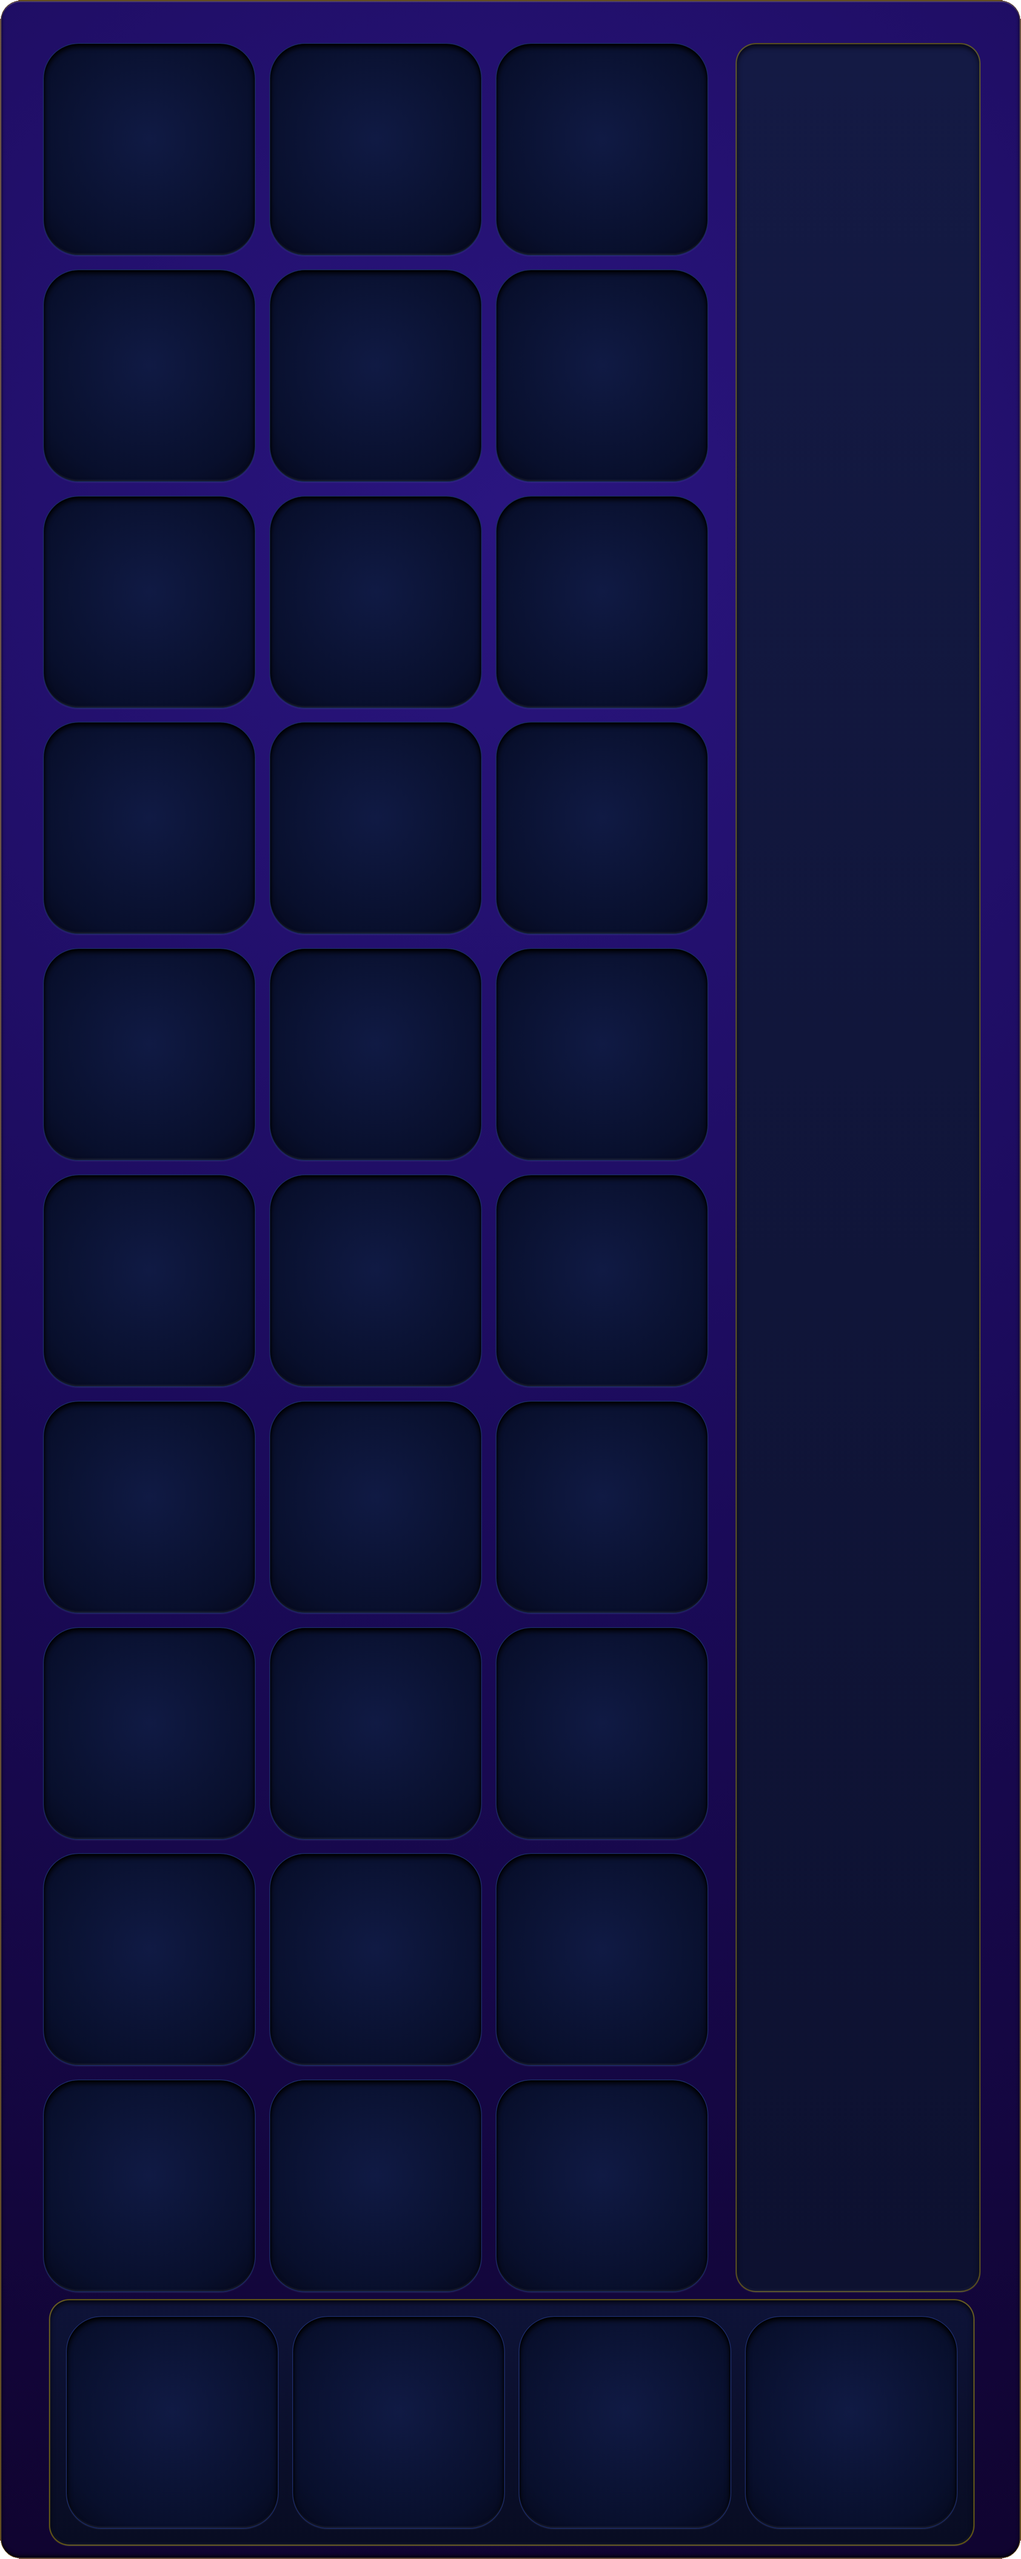
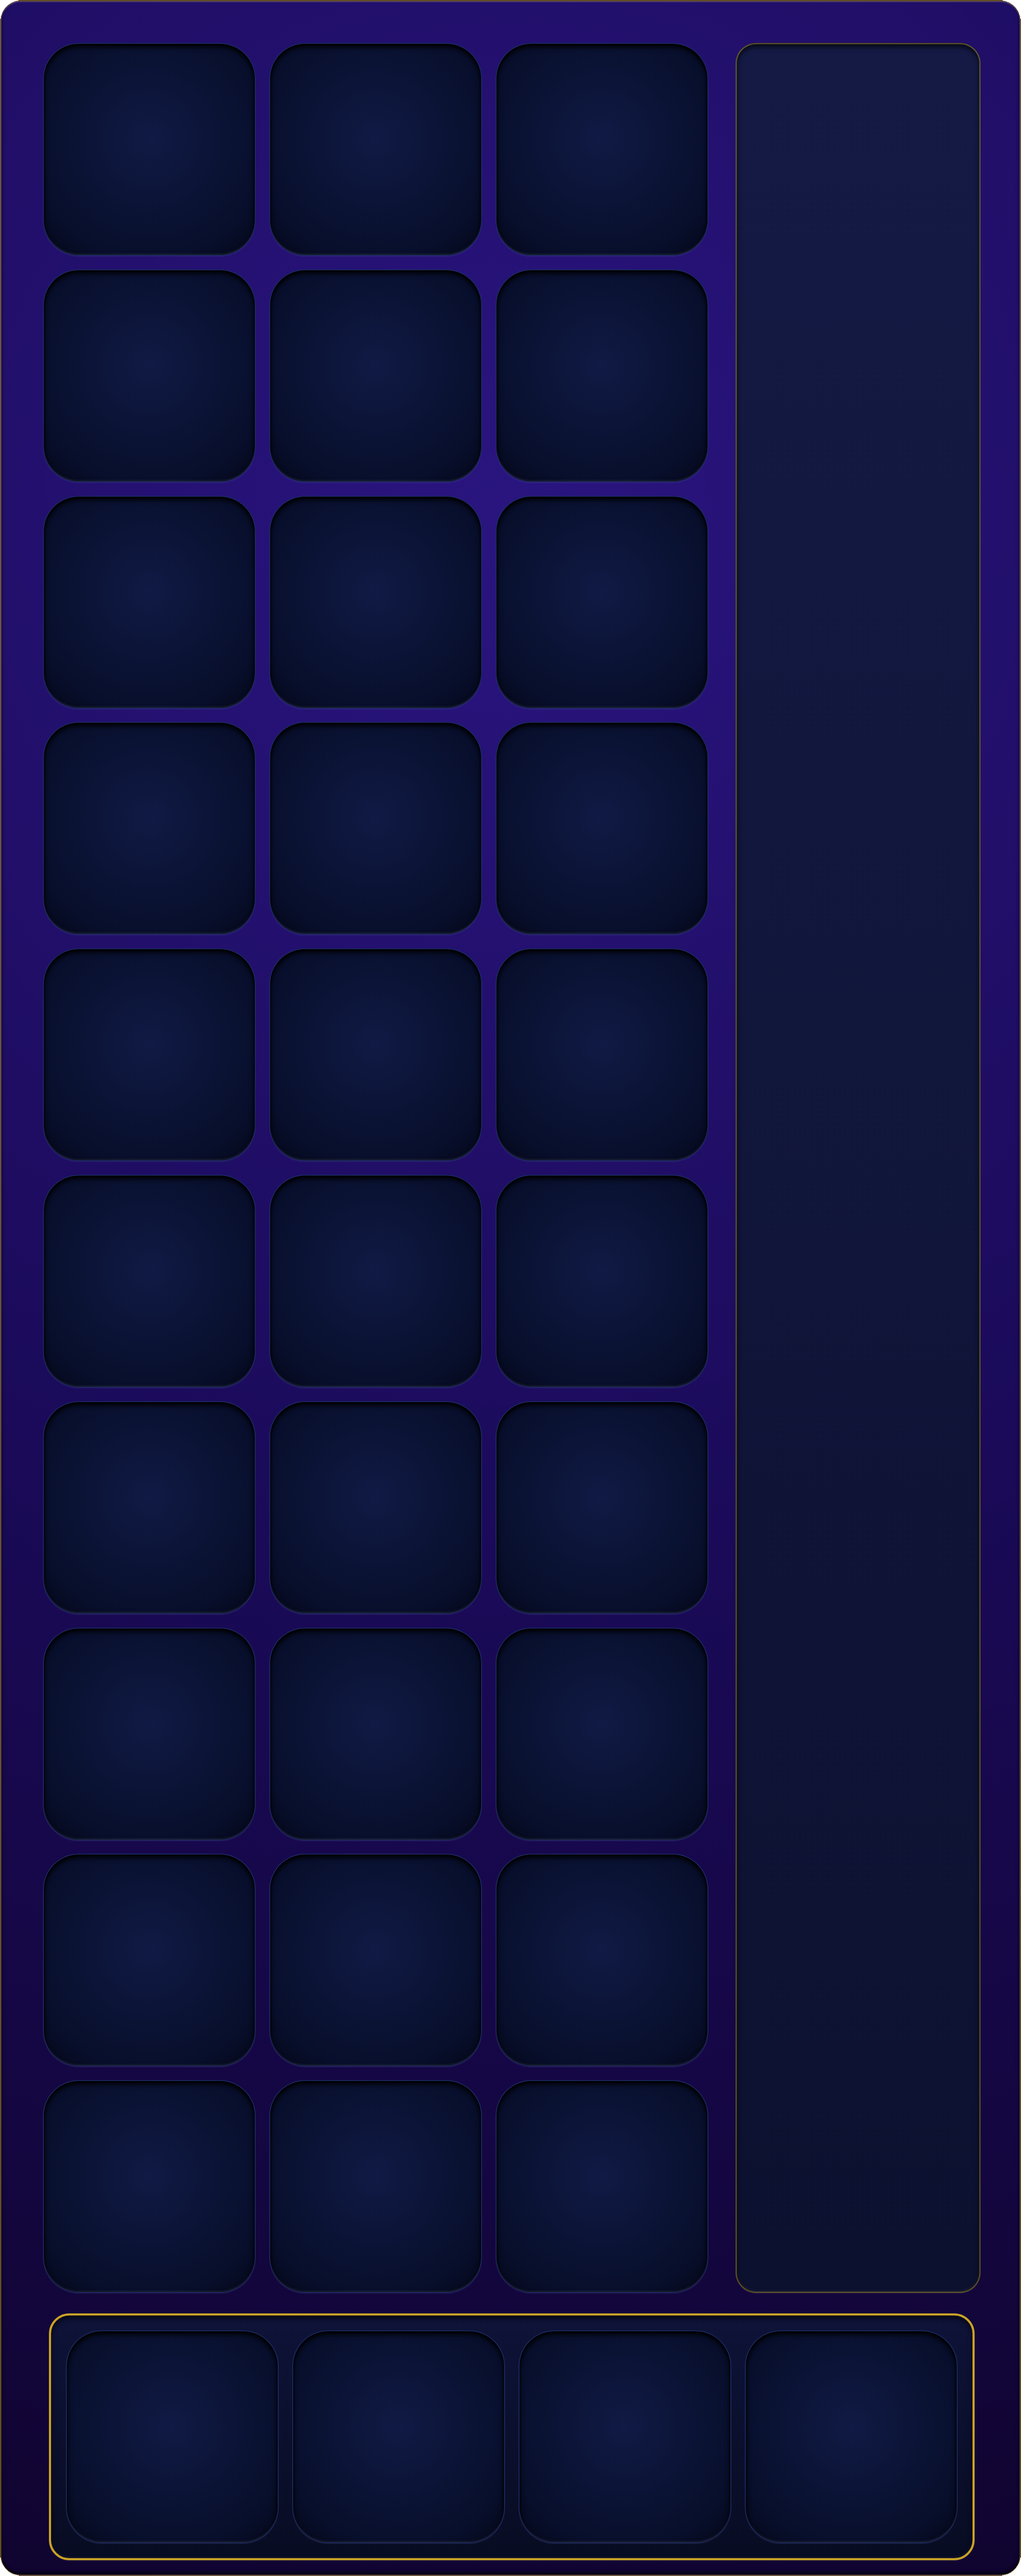
Increase dice-row separation with a solid brass border
The framed strip gets a 5px solid #c9a227 border (was translucent gold)
and a 48px gap below the grid (was 16px); the board grows to 2400x6052
to keep bottom margins balanced. BOARD_ASPECT and
BOARD_DICE_ROW_TOP_PX updated.

Generated with [Devin](https://devin.ai)

diff --git a/shared/src/commonMain/kotlin/com/masterdice/ui/GameScreen.kt b/shared/src/commonMain/kotlin/com/masterdice/ui/GameScreen.kt
@@ -91,11 +91,11 @@ import kotlin.math.roundToInt
 
 private val WellShape = RoundedCornerShape(10.dp)
 
-// board_4x10.png geometry (pixels of the 2400x6014 source artwork; the
+// board_4x10.png geometry (pixels of the 2400x6052 source artwork; the
 // bundled resource is a 0.6x downscale — identical fractions): 10 rows of
-// 3 square wells plus a continuous recessed peg track, then a bottom row
-// of 4 dice wells — the last centered under the track.
-private const val BOARD_ASPECT = 6014f / 2400f
+// 3 square wells plus a continuous recessed peg track, then a framed
+// bottom row of 4 dice wells.
+private const val BOARD_ASPECT = 6052f / 2400f
 private const val BOARD_WELL_PX = 500f
 private val BOARD_COLS_PX = floatArrayOf(98f, 630f, 1162f)
 private const val BOARD_TRACK_CX_PX = 2014f
@@ -103,8 +103,8 @@ private const val BOARD_ROW_TOP_PX = 98f
 private const val BOARD_ROW_PITCH_PX = 531.8f
 
 // Bottom dice row: four wells at the 532px pitch, centered on the board
-// (152px margins both sides); top at 98 + 10 pitches.
-private const val BOARD_DICE_ROW_TOP_PX = 5440f
+// (152px margins both sides) inside a bordered strip below the grid.
+private const val BOARD_DICE_ROW_TOP_PX = 5472f
 private val BOARD_DICE_COLS_PX = floatArrayOf(152f, 684f, 1216f, 1748f)
 
 @Composable
